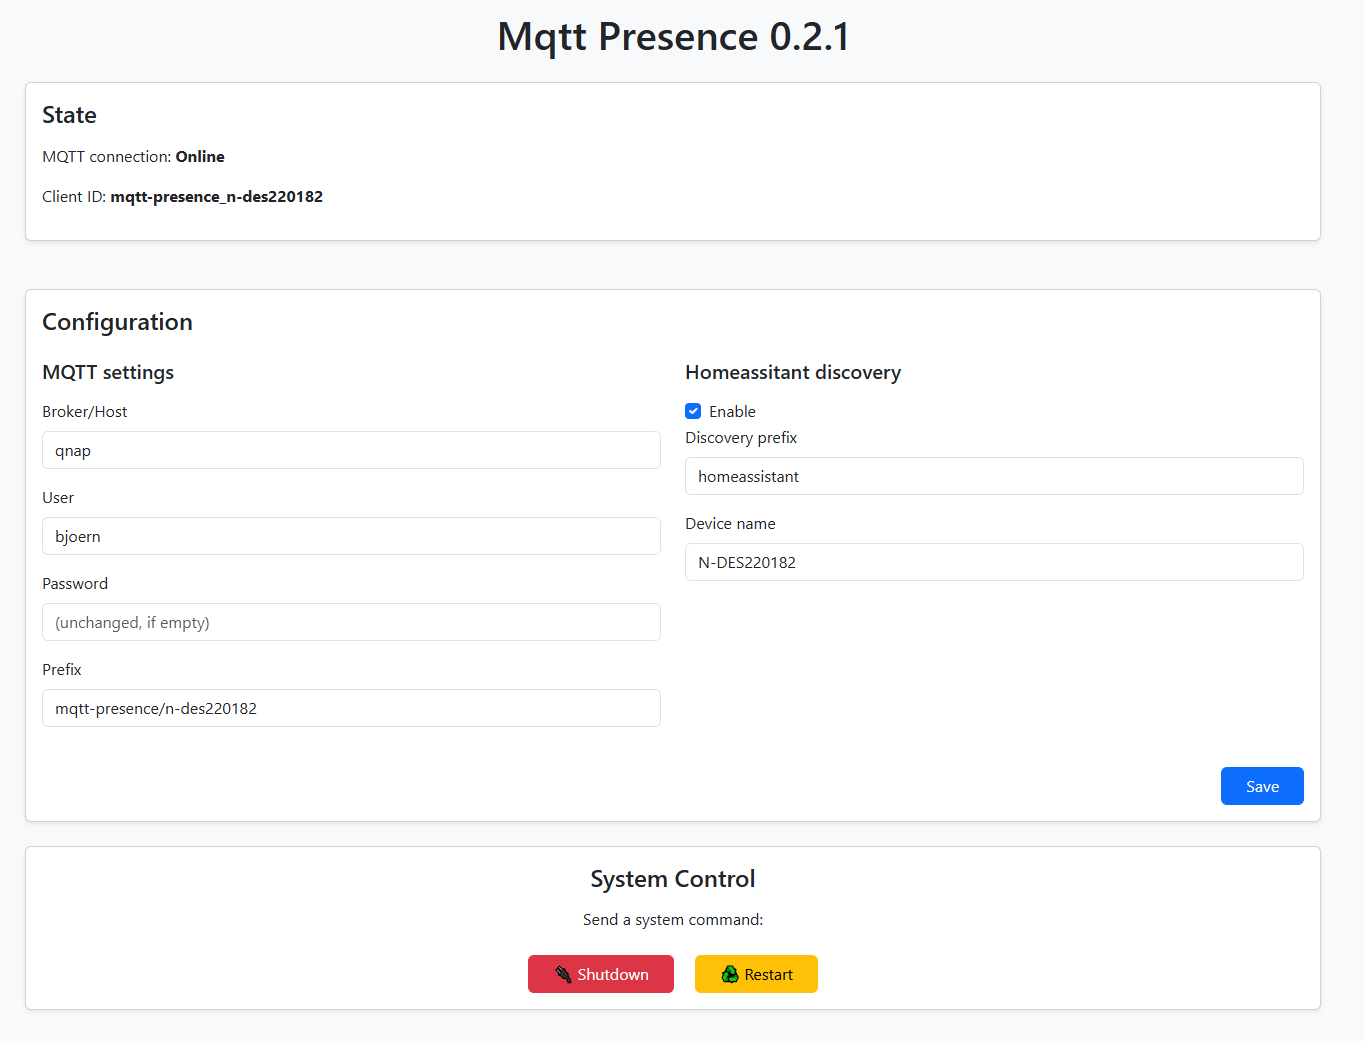
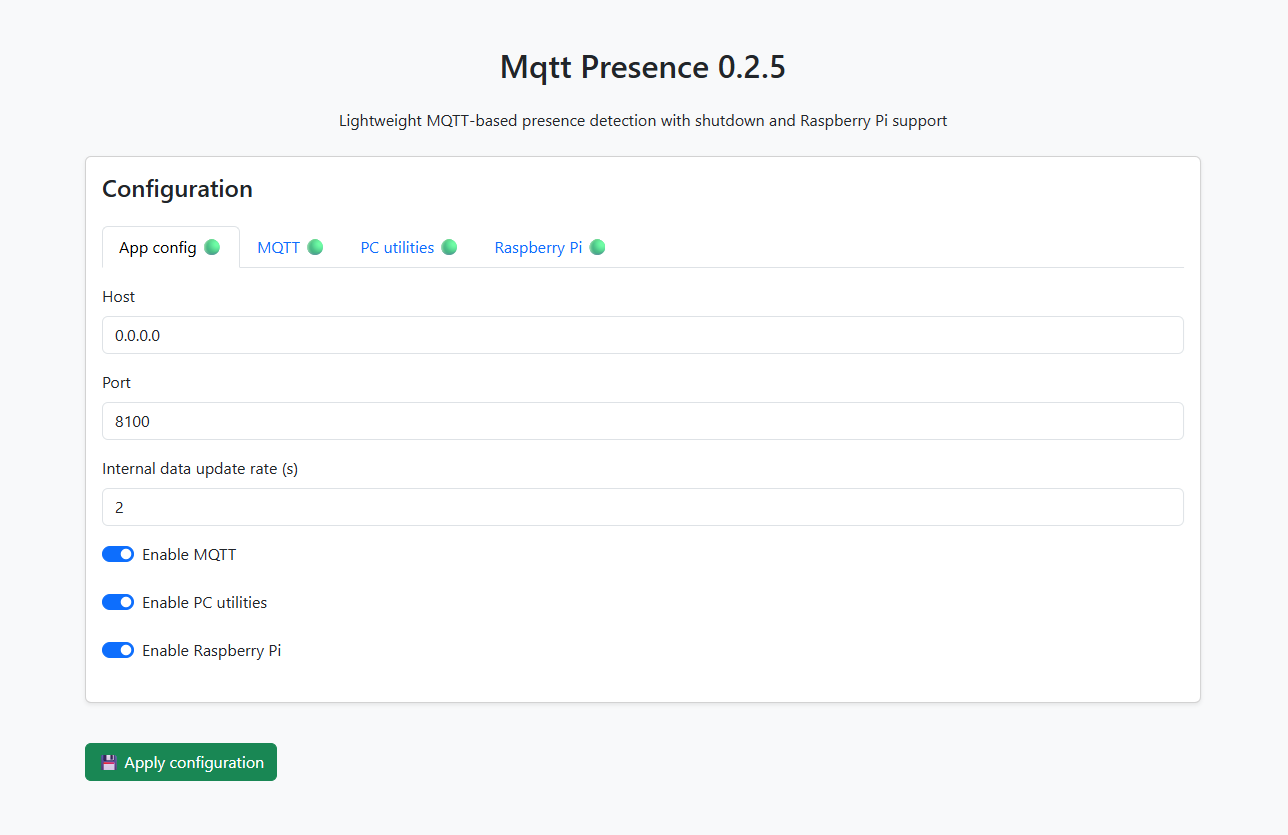
updated version

diff --git a/mqtt_presence/version.py b/mqtt_presence/version.py
@@ -1,6 +1,6 @@
-VERSION = "0.2.4"
+VERSION = "0.2.5"
 NAME = "mqtt-presence"
-DESCRIPTION = "Lightweight MQTT-based presence detection with shutdown support"
+DESCRIPTION = "Lightweight MQTT-based presence detection with shutdown and Raspberry Pi support"
 REPOSITORY = "https://github.com/bjoernboeckle/mqtt-presence"
 DOCUMENTATION = "https://github.com/bjoernboeckle/mqtt-presence/wiki"
 AUTHORS = "['Bjoern Boeckle <bjoern@boeckle-net.de>']"
